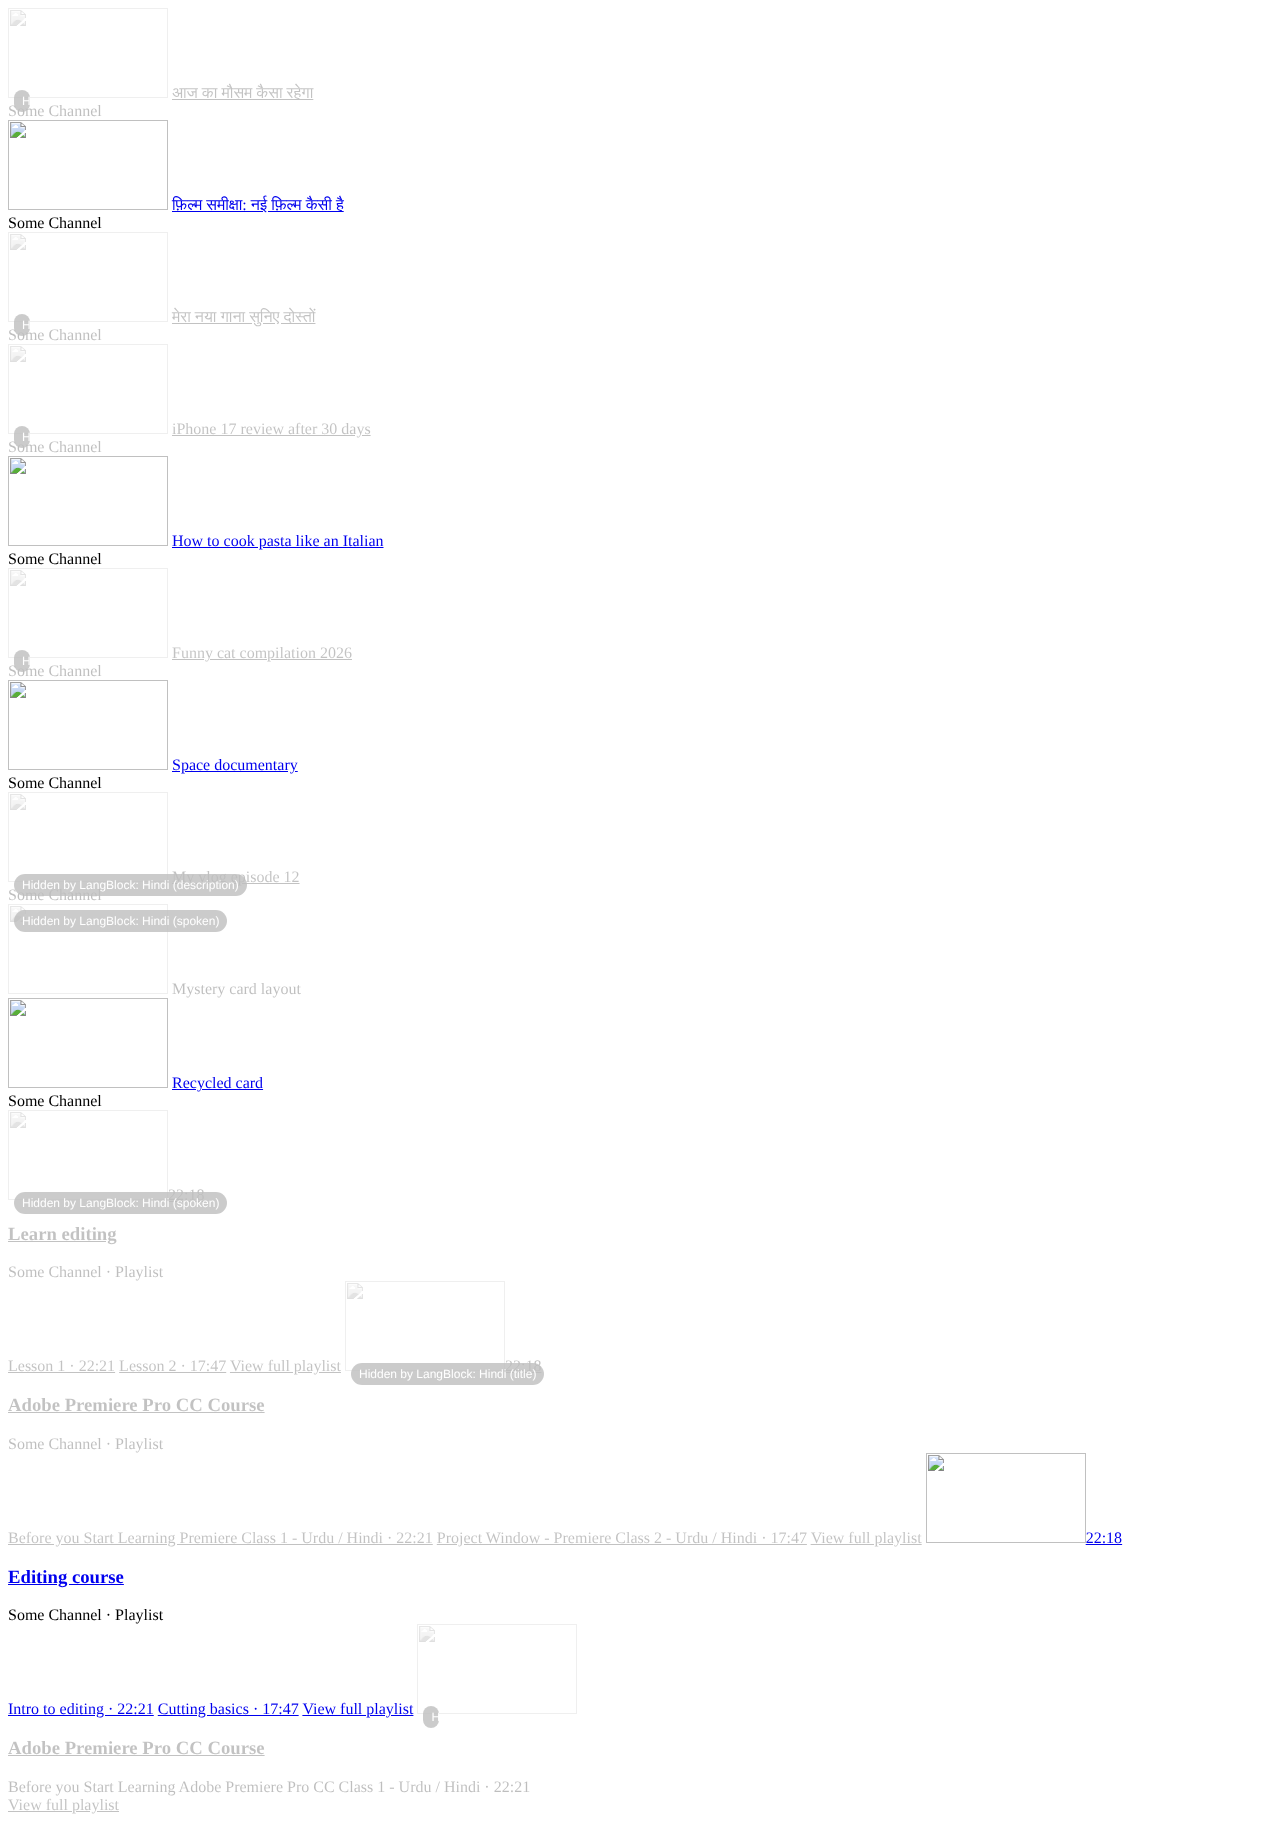
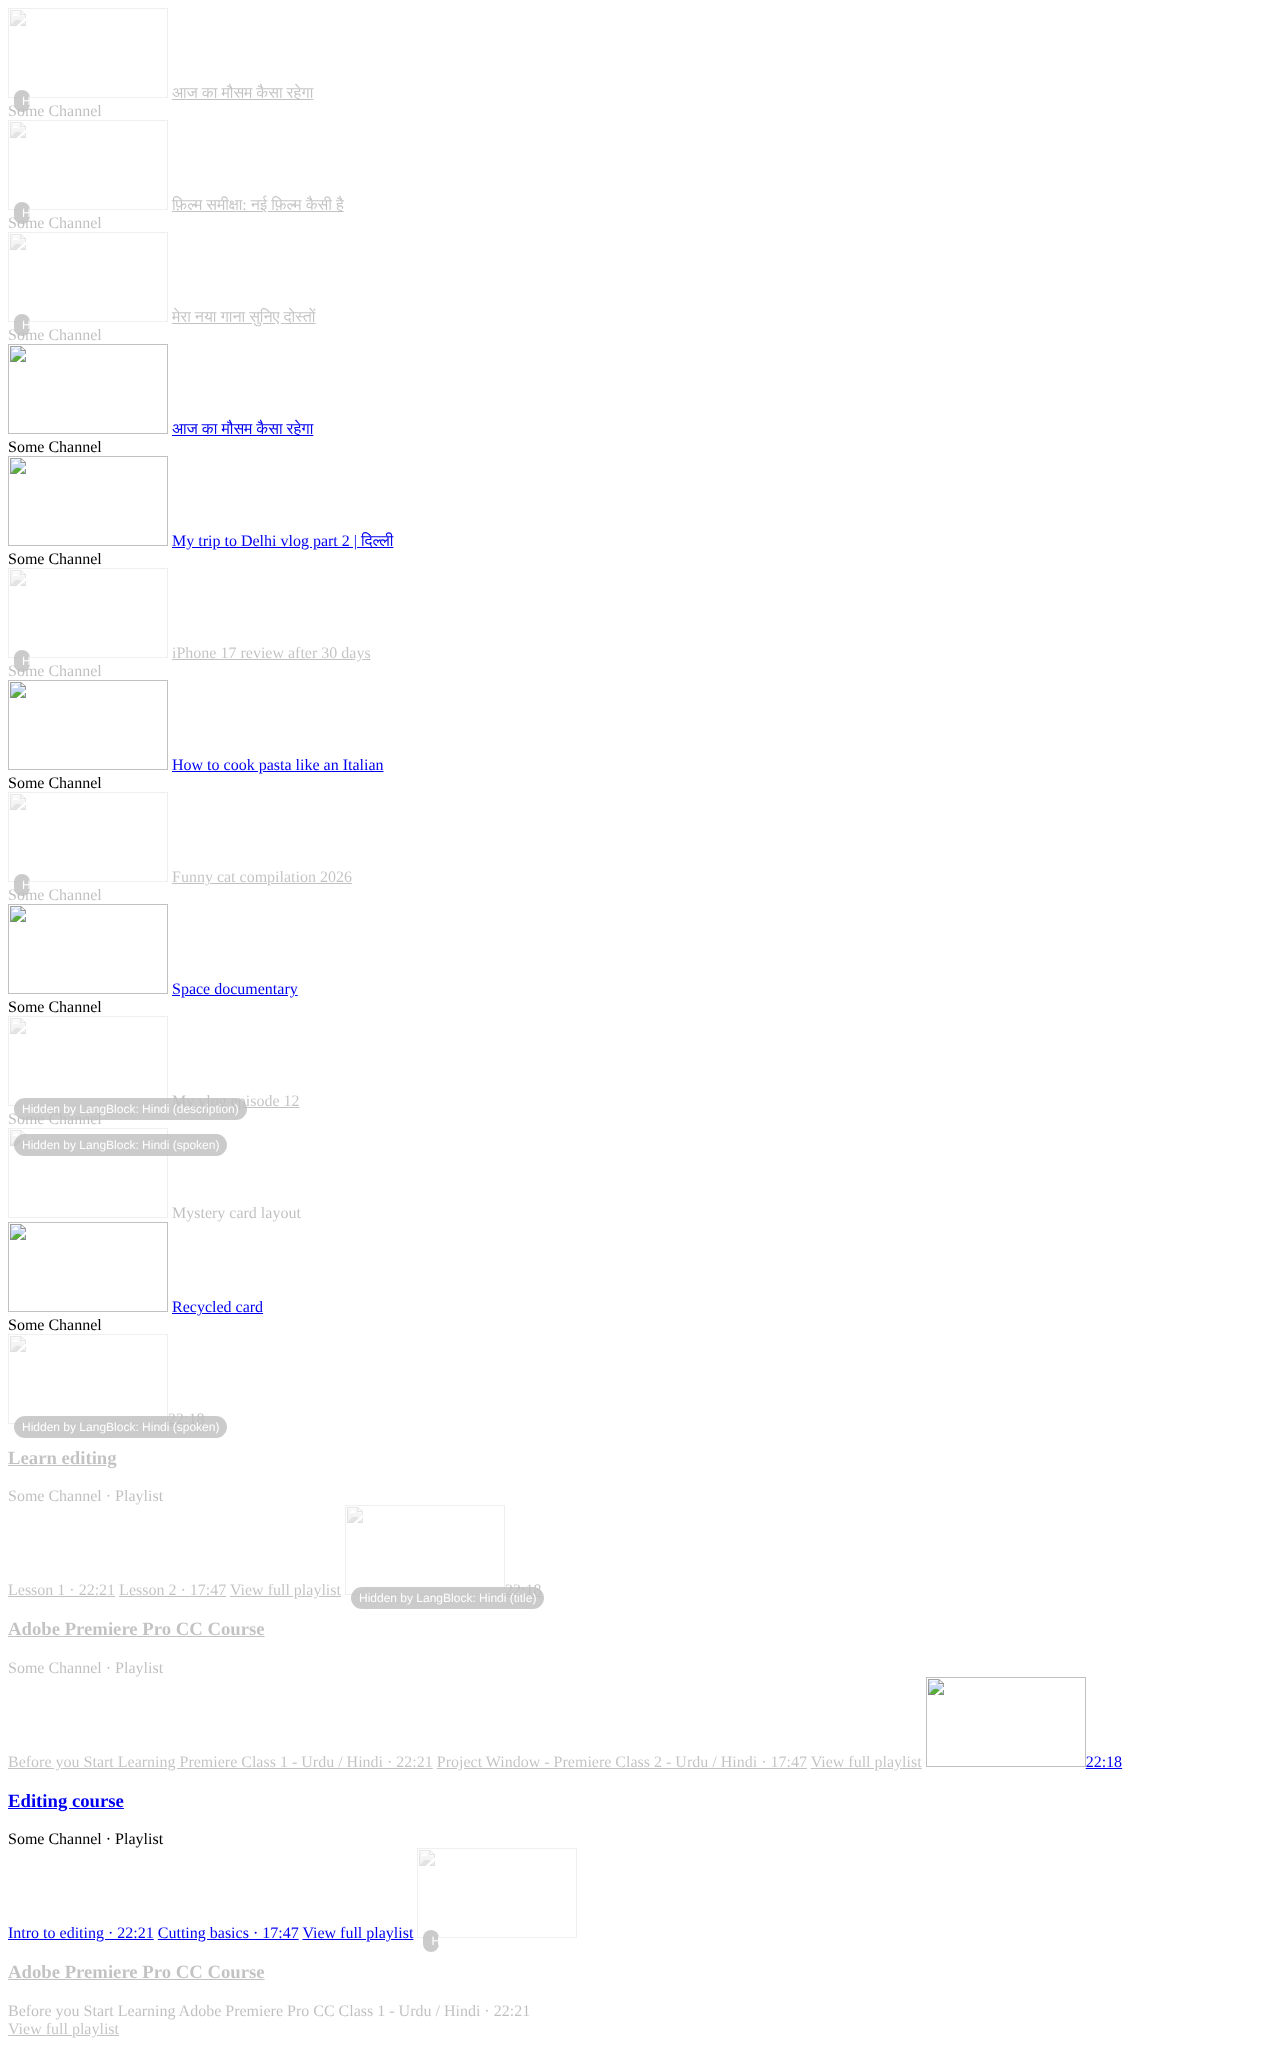
1.0.7: native-script language names, English-label override
- A language's own name in its own script counts as a label ("اردو /
  हिंदी", "【中文】"), with whole-word matching so "中文字幕" doesn't.
- An English language name counts anywhere when the text is also written
  in that language's script ("Basics Malayalam Tutorial" next to
  Malayalam).
- A title at least 40% in a blocked language's own script outweighs
  YouTube saying the video is English, its default label. Any other
  spoken language from YouTube still wins over the title.

Claude-Session: https://claude.ai/code/session_01PEBjGpQ1o4LDysv1wHTkaj

diff --git a/src/detect.js b/src/detect.js
@@ -293,23 +293,7 @@
   function spokenVerdict(sig, blocked, opts = {}) {
     if (!sig || !blocked || blocked.size === 0) return null;
     const audio = sig.a || [];
-    const asr = sig.s || [];
-    let spoken = null;
-    let source = null;
-    // The "original" track among several is the most reliable. Next comes
-    // YouTube's speech recognition. A lone audio track's language is only
-    // what the creator picked, which is sometimes wrong (Urdu videos
-    // labelled English), so it comes last.
-    if (sig.o) {
-      spoken = sig.o;
-      source = "audio";
-    } else if (asr.length > 0) {
-      spoken = asr[0];
-      source = "captions";
-    } else if (audio.length === 1) {
-      spoken = audio[0];
-      source = "audio";
-    }
+    const { lang: spoken, source } = spokenLanguage(sig);
     if (spoken) {
       if (blocked.has(spoken)) return { lang: spoken, source };
       if (opts.blockDubbed) {
@@ -326,6 +310,39 @@
     return null;
   }
 
+  /**
+   * The spoken language YouTube gives for a video, and where it came from.
+   * The "original" track among several is the most reliable. Next comes
+   * YouTube's speech recognition. A lone audio track's language is only what
+   * the creator picked, which is sometimes wrong (Urdu videos labelled
+   * English), so it comes last.
+   * @returns {{lang:string|null, source:string|null}}
+   */
+  function spokenLanguage(sig) {
+    const audio = (sig && sig.a) || [];
+    const asr = (sig && sig.s) || [];
+    if (sig && sig.o) return { lang: sig.o, source: "audio" };
+    if (asr.length > 0) return { lang: asr[0], source: "captions" };
+    if (audio.length === 1) return { lang: audio[0], source: "audio" };
+    return { lang: null, source: null };
+  }
+
+  /**
+   * Share of the text's letters written in `code`'s own writing system, for
+   * languages that don't use the Latin alphabet (0 for those that do).
+   */
+  function scriptShare(text, code) {
+    const lang = LB.LANGUAGE_BY_CODE[normalizeCode(code)];
+    if (!lang || lang.script === "Latin") return 0;
+    const { total, counts } = analyzeScripts(text);
+    if (!total) return 0;
+    let n = counts[lang.script] || 0;
+    // Japanese mixes kana with kanji; kanji next to kana isn't Chinese.
+    if (lang.code === "ja" && n > 0) n += counts.Han || 0;
+    if (lang.code === "zh" && counts.Japanese) n = 0;
+    return n / total;
+  }
+
   // ---------------------------------------------------------------------
   // Language named in the title ("in Hindi", "Class 1 - Urdu / Hindi")
   // ---------------------------------------------------------------------
@@ -334,7 +351,21 @@
     return text.replace(/[.*+?^${}()|[\]\\]/g, "\\$&");
   }
 
-  const nameMatchers = new Map(); // code -> RegExp
+  // A language's name for itself, when that isn't in the Latin alphabet:
+  // "हिन्दी", "اردو", "മലയാളം". Latin ones ("Indonesia", "Deutsch") are
+  // ordinary words in English titles, so they are left out.
+  function nativeNames(lang) {
+    const names = new Set(lang.native || []);
+    try {
+      const own = new Intl.DisplayNames([lang.code], { type: "language" }).of(lang.code);
+      if (own && own !== lang.code) names.add(own);
+    } catch {
+      // no Intl data for this language
+    }
+    return [...names].filter((n) => !/\p{Script=Latin}/u.test(n));
+  }
+
+  const nameMatchers = new Map(); // code -> { label, native, anywhere } RegExps
   function nameMatcher(code) {
     if (nameMatchers.has(code)) return nameMatchers.get(code);
     const lang = LB.LANGUAGE_BY_CODE[code];
@@ -356,6 +387,17 @@
         ].join("|"),
         "iu"
       );
+      // Written in its own script the name is a clear label wherever it
+      // stands, as long as it's a whole word ("اردو / हिंदी", "【中文】",
+      // but not "中文字幕").
+      const own = nativeNames(lang).map(escapeRegExp);
+      const native = own.length
+        ? new RegExp(`(?<![\\p{L}\\p{M}])(?:${own.join("|")})(?![\\p{L}\\p{M}])`, "iu")
+        : null;
+      // "Basics Malayalam Tutorial" next to Malayalam script: the name counts
+      // anywhere when the text is also written in that language's script.
+      const anywhere = lang.script !== "Latin" ? new RegExp(`\\b${name}\\b`, "iu") : null;
+      re = { label: re, native, anywhere, script: lang.script };
     }
     nameMatchers.set(code, re);
     return re;
@@ -367,9 +409,15 @@
    */
   function nameVerdict(text, blocked) {
     if (!text || !blocked) return null;
+    let scripts = null;
     for (const code of blocked) {
-      const re = nameMatcher(code);
-      if (re && re.test(text)) return { lang: code, source: "name" };
+      const m = nameMatcher(code);
+      if (!m) continue;
+      if (m.label.test(text) || (m.native && m.native.test(text))) return { lang: code, source: "name" };
+      if (m.anywhere && m.anywhere.test(text)) {
+        scripts ||= analyzeScripts(text).counts;
+        if ((scripts[m.script] || 0) >= SCRIPT_MIN_LETTERS) return { lang: code, source: "name" };
+      }
     }
     return null;
   }
@@ -381,14 +429,32 @@
    *    YouTube labels the speech as another language.
    * 3. YouTube knows the spoken language and it isn't blocked: show. A
    *    French-looking title on a video spoken in English is not French.
+   *    Except that English is YouTube's default label, and many videos
+   *    spoken in other languages carry it. A title written largely in a
+   *    blocked language's own script (`titleOutweighsEnglish`) wins over it.
    * 4. Otherwise the title's detected language decides.
    * @returns {{lang:string, source:string}|null} null = show the video
    */
-  function finalVerdict(fromText, spoken, fromName) {
+  function finalVerdict(fromText, spoken, fromName, titleOutweighsEnglish = false) {
     if (spoken && spoken !== "clear") return spoken;
     if (fromName) return fromName;
-    if (spoken === "clear") return null;
+    if (spoken === "clear" && !(titleOutweighsEnglish && fromText)) return null;
     return fromText || null;
+  }
+
+  // How much of a title has to be in a blocked language's script to outweigh
+  // YouTube's "English" label: "ഇതിലും എളുപ്പത്തിൽ Premiere Pro പഠിക്കാൻ
+  // പറ്റില്ല | Basics Malayalam Tutorial" is about 43%.
+  const TITLE_OUTWEIGHS_ENGLISH_SHARE = 0.4;
+
+  /**
+   * Whether a title in `lang`'s script should win over YouTube saying every
+   * video on the card is spoken in English.
+   */
+  function titleOutweighsEnglish(title, lang, sigs) {
+    if (!lang || !sigs.length) return false;
+    if (!sigs.every((sig) => sig && spokenLanguage(sig).lang === "en")) return false;
+    return scriptShare(title, lang) >= TITLE_OUTWEIGHS_ENGLISH_SHARE;
   }
 
   /**
@@ -498,8 +564,11 @@
     signalsFromPlayerResponse,
     descriptionFromPlayerResponse,
     spokenVerdict,
+    spokenLanguage,
+    scriptShare,
     nameVerdict,
     finalVerdict,
+    titleOutweighsEnglish,
     playlistVerdict,
     confidentLanguage,
     DEFAULT_SETTINGS,

diff --git a/src/content.js b/src/content.js
@@ -208,29 +208,33 @@
     return found;
   }
 
+  // The card's title(s), and the title with channel name and snippet.
   function cardText(card, isPlaylist) {
-    const parts = [];
+    const titles = [];
     const title = card.querySelector(TITLE_SELECTOR);
-    if (title) parts.push(title.getAttribute("title") || title.textContent);
+    if (title) titles.push(title.getAttribute("title") || title.textContent);
     else {
       const a = card.querySelector(LINK_SELECTOR + "[title]");
-      if (a) parts.push(a.getAttribute("title"));
+      if (a) titles.push(a.getAttribute("title"));
     }
-    const channel = card.querySelector(CHANNEL_SELECTOR);
-    if (channel) parts.push(channel.textContent);
-    const snippet = card.querySelector(SNIPPET_SELECTOR);
-    if (snippet) parts.push(snippet.textContent);
     // Playlist cards list their first videos; their titles often say more
     // than the playlist title ("Class 1 - Urdu / Hindi").
     if (isPlaylist) {
-      for (const a of card.querySelectorAll(LINK_SELECTOR)) parts.push(a.getAttribute("title") || a.textContent);
+      for (const a of card.querySelectorAll(LINK_SELECTOR)) titles.push(a.getAttribute("title") || a.textContent);
     }
-    return parts
-      .filter(Boolean)
-      .join(" \n ")
-      .replace(/\s+/g, " ")
-      .trim()
-      .slice(0, 1000);
+    const channel = card.querySelector(CHANNEL_SELECTOR);
+    const snippet = card.querySelector(SNIPPET_SELECTOR);
+    const join = (parts) =>
+      parts
+        .filter(Boolean)
+        .join(" \n ")
+        .replace(/\s+/g, " ")
+        .trim()
+        .slice(0, 1000);
+    return {
+      title: join(titles),
+      text: join([titles[0], channel && channel.textContent, snippet && snippet.textContent, ...titles.slice(1)]),
+    };
   }
 
   // -------------------------------------------------------------------
@@ -292,6 +296,7 @@
     if (info.spoken) parts.push(`spoken: ${info.spoken}`);
     if (info.title) parts.push(`title: ${info.title}`);
     if (info.name) parts.push(`names ${LB.languageName(info.name.lang)}`);
+    if (info.note) parts.push(info.note);
     card.setAttribute("data-langblock-debug", parts.join(" · "));
   }
 
@@ -314,7 +319,7 @@
     }
 
     const isPlaylist = ids.length !== 1;
-    const text = cardText(card, isPlaylist);
+    const { text, title } = cardText(card, isPlaylist);
     const detection = await detect(text);
     if (tokens.get(card) !== token) return;
 
@@ -350,7 +355,9 @@
       .join("; ");
 
     if (unknown.length === 0) {
-      const v = LB.finalVerdict(fromText, spoken, fromName);
+      const outweighs = !!fromText && LB.titleOutweighsEnglish(title, fromText.lang, sigs);
+      const v = LB.finalVerdict(fromText, spoken, fromName, outweighs);
+      if (outweighs && v === fromText) info.note = "title outweighs YouTube's English label";
       decide(v ? "blocked" : null, v);
       return;
     }

diff --git a/src/languages.js b/src/languages.js
@@ -34,7 +34,7 @@
     { code: "gu", name: "Gujarati", script: "Gujarati" },
     { code: "ha", name: "Hausa", script: "Latin" },
     { code: "he", name: "Hebrew", script: "Hebrew", aliases: ["iw"] },
-    { code: "hi", name: "Hindi", script: "Devanagari" },
+    { code: "hi", name: "Hindi", script: "Devanagari", native: ["हिंदी"] },
     { code: "hr", name: "Croatian", script: "Latin" },
     { code: "hu", name: "Hungarian", script: "Latin" },
     { code: "hy", name: "Armenian", script: "Armenian" },
@@ -63,7 +63,7 @@
     { code: "nl", name: "Dutch", script: "Latin" },
     { code: "no", name: "Norwegian", script: "Latin", aliases: ["nb", "nn"] },
     { code: "or", name: "Odia", script: "Oriya" },
-    { code: "pa", name: "Punjabi", script: "Gurmukhi" },
+    { code: "pa", name: "Punjabi", script: "Gurmukhi", native: ["پنجابی"] },
     { code: "pl", name: "Polish", script: "Latin" },
     { code: "ps", name: "Pashto", script: "Arabic" },
     { code: "pt", name: "Portuguese", script: "Latin" },

diff --git a/README.md b/README.md
@@ -6,7 +6,7 @@ A free browser extension that hides YouTube videos spoken in languages you choos
 
 Each video card goes through two checks. Both run in your browser and need no API key or account.
 
-1. **Title check (instant, offline).** The title, channel name and snippet are run through the browser's built-in language detector (`i18n.detectLanguage`) and a writing-system check (for example Devanagari for Hindi). Clear matches are hidden immediately. Short titles in the Latin alphabet fool the detector (it calls "Adobe Premiere Pro Tutorials" Italian), so for those it has to be sure, at least 80%, and the text has to contain two everyday words of that language, such as "di", "il" or "che" for Italian. When the spoken-language check (below) finds YouTube's spoken-language information, that decides instead, so a French title on a video spoken in English is shown again. The title only decides on its own when YouTube has no spoken-language information.
+1. **Title check (instant, offline).** The title, channel name and snippet are run through the browser's built-in language detector (`i18n.detectLanguage`) and a writing-system check (for example Devanagari for Hindi). Clear matches are hidden immediately. Short titles in the Latin alphabet fool the detector (it calls "Adobe Premiere Pro Tutorials" Italian), so for those it has to be sure, at least 80%, and the text has to contain two everyday words of that language, such as "di", "il" or "che" for Italian. When the spoken-language check (below) finds YouTube's spoken-language information, that decides instead, so a French title on a video spoken in English is shown again. The title only decides on its own when YouTube has no spoken-language information, with one exception: English is YouTube's default label and many videos spoken in other languages carry it, so a title at least 40% written in a blocked language's own script (Malayalam, Devanagari, Bengali and so on) outweighs an "English" label.
 2. **Spoken-language check.** For videos that pass the title check, LangBlock loads the video's YouTube watch page once and reads two fields from the player data YouTube embeds in it (`ytInitialPlayerResponse`):
    - the **original audio track** (`audioTrack.id` like `hi.4`, or a display name containing "original") on videos with multiple audio tracks;
    - the language of the **auto-generated caption track** (`captionTracks[].kind == "asr"`), which is YouTube's own speech recognition naming the spoken language;
@@ -23,7 +23,7 @@ The second check matters because YouTube auto-translates titles and auto-dubs au
 
 ### Playlists and language names
 - **Playlist cards** list their first videos. LangBlock checks up to three of them and hides the playlist when at least half of the videos with a known language are in a blocked language. Their titles are also included in the title check.
-- **Language named in the title.** "in Hindi", "(Hindi)", "| Hindi", "Urdu / Hindi" or "Hindi dubbed" count as a signal. This outranks YouTube's spoken-language label, because that label isn't always right. "Learn Hindi", "Hindi vs Urdu" or "French toast" don't count.
+- **Language named in the title.** "in Hindi", "(Hindi)", "| Hindi", "Urdu / Hindi" or "Hindi dubbed" count as a signal. So does a language's own name in its own script anywhere in the text ("اردو / हिंदी", "മലയാളം", "【中文】", but not "中文字幕"), and an English name anywhere when the text is also written in that language's script ("… | Basics Malayalam Tutorial" next to Malayalam). This outranks YouTube's spoken-language label, because that label isn't always right. "Learn Hindi", "Hindi vs Urdu" or "French toast" on their own don't count.
 
 ### Picking languages
 Tick languages in the list, or use "Block all except English" (named after the browser's language) to block every language LangBlock knows except yours, and "Unblock all" to clear the list. Individual languages can still be ticked or unticked afterwards, and both buttons offer Undo.

diff --git a/docs/STORE_LISTING.md b/docs/STORE_LISTING.md
@@ -22,8 +22,8 @@ LangBlock hides YouTube videos in languages you don't want to see. Pick the lang
 HOW IT WORKS
 LangBlock checks each video on your device, using three signals:
 • Spoken language: LangBlock reads the spoken language YouTube itself has recorded for the video, namely the language of its automatic captions and its original audio track. This catches videos whose titles are in English or were auto-translated by YouTube. Each video is checked once and the answer is remembered on your device.
-• Language named in the title: titles such as "in Hindi", "(Hindi)", "Urdu / Hindi" or "Hindi dubbed" count, even when YouTube labels the video differently. "Learn Hindi" or "Hindi vs Urdu" don't.
-• Title check: your browser's built-in language detector and a writing-system check read the title, so obvious matches (for example a title written in Devanagari) are hidden instantly. When YouTube knows the spoken language, that wins, so a French title on a video spoken in English stays visible.
+• Language named in the title: titles such as "in Hindi", "(Hindi)", "Urdu / Hindi", "Hindi dubbed" or the language's own name in its own script ("اردو / हिंदी") count, even when YouTube labels the video differently. "Learn Hindi" or "Hindi vs Urdu" on their own don't.
+• Title check: your browser's built-in language detector and a writing-system check read the title, so obvious matches (for example a title written in Devanagari) are hidden instantly. When YouTube knows the spoken language, that wins, so a French title on a video spoken in English stays visible. The exception is YouTube's default "English" label, which many videos in other languages carry: a title written largely in a blocked language's own script outweighs it.
 
 FEATURES
 • Block any number of languages (80+ supported)
